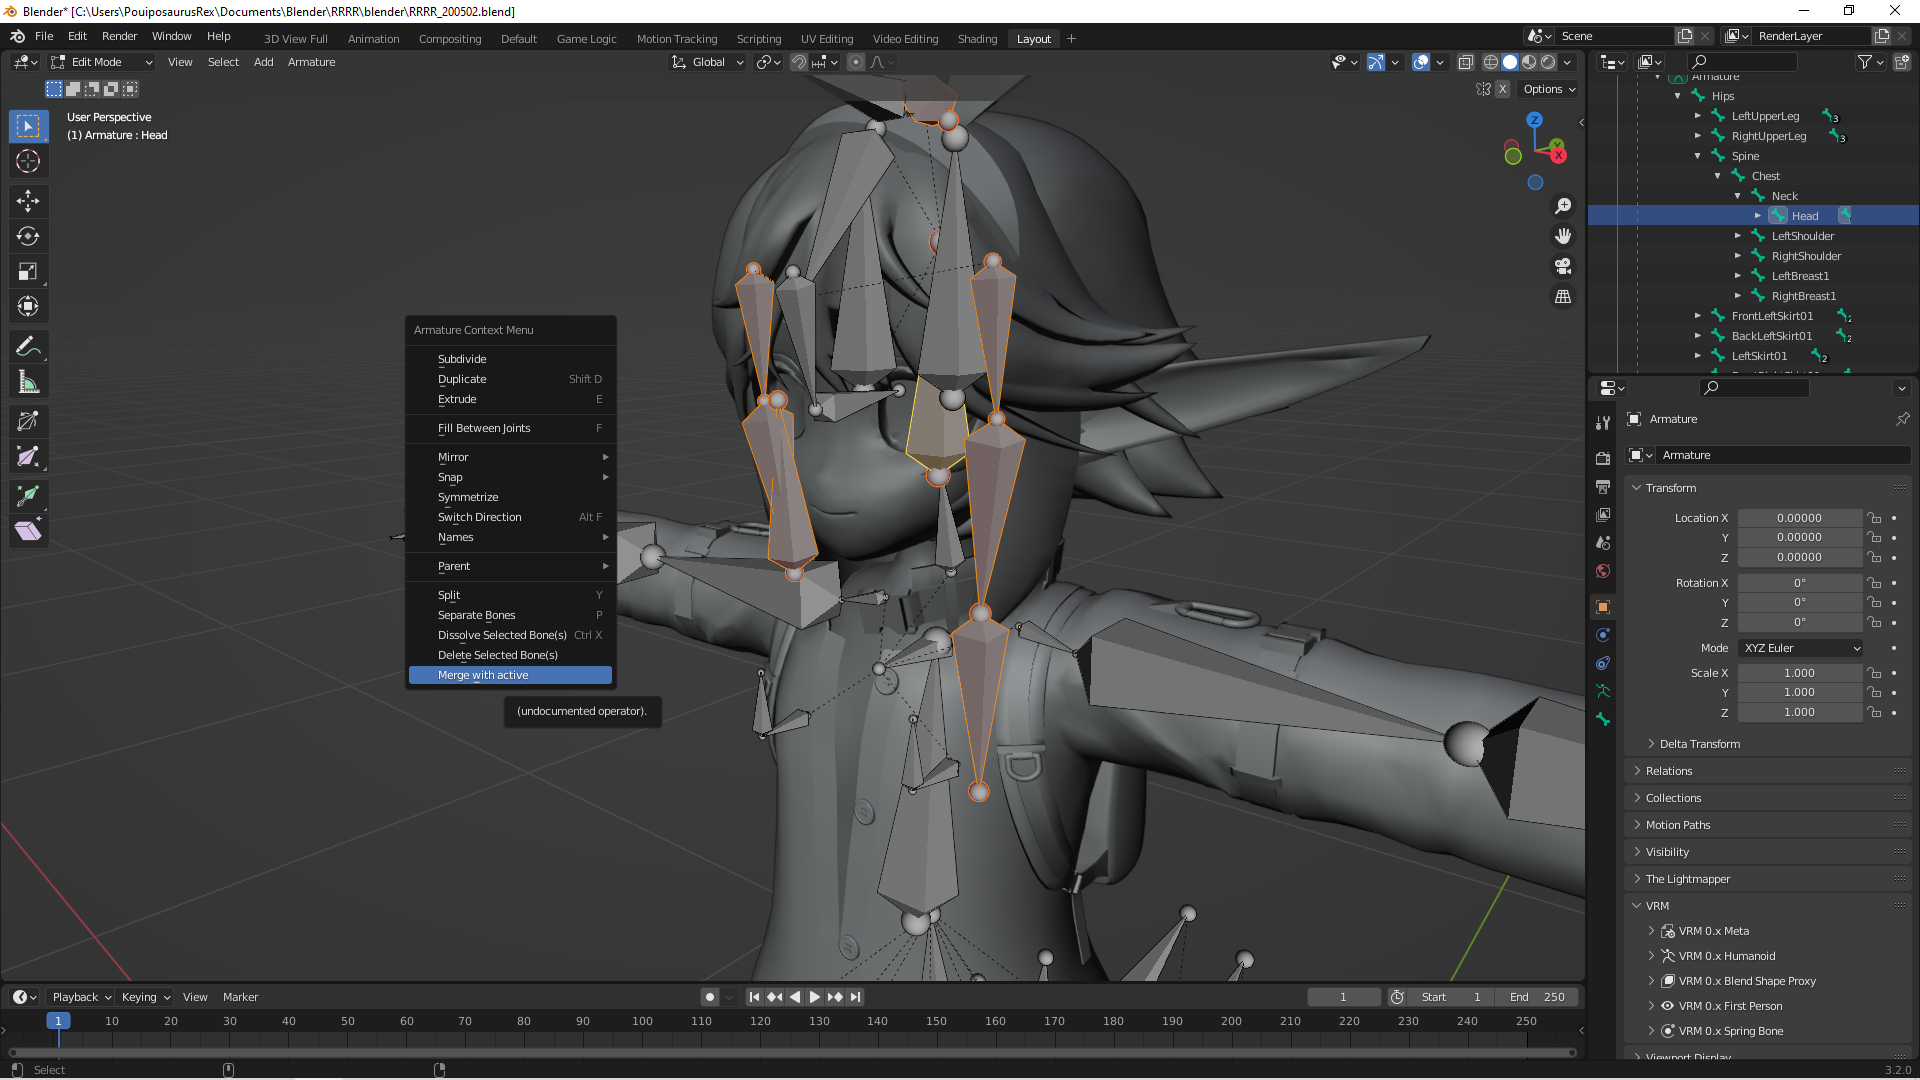
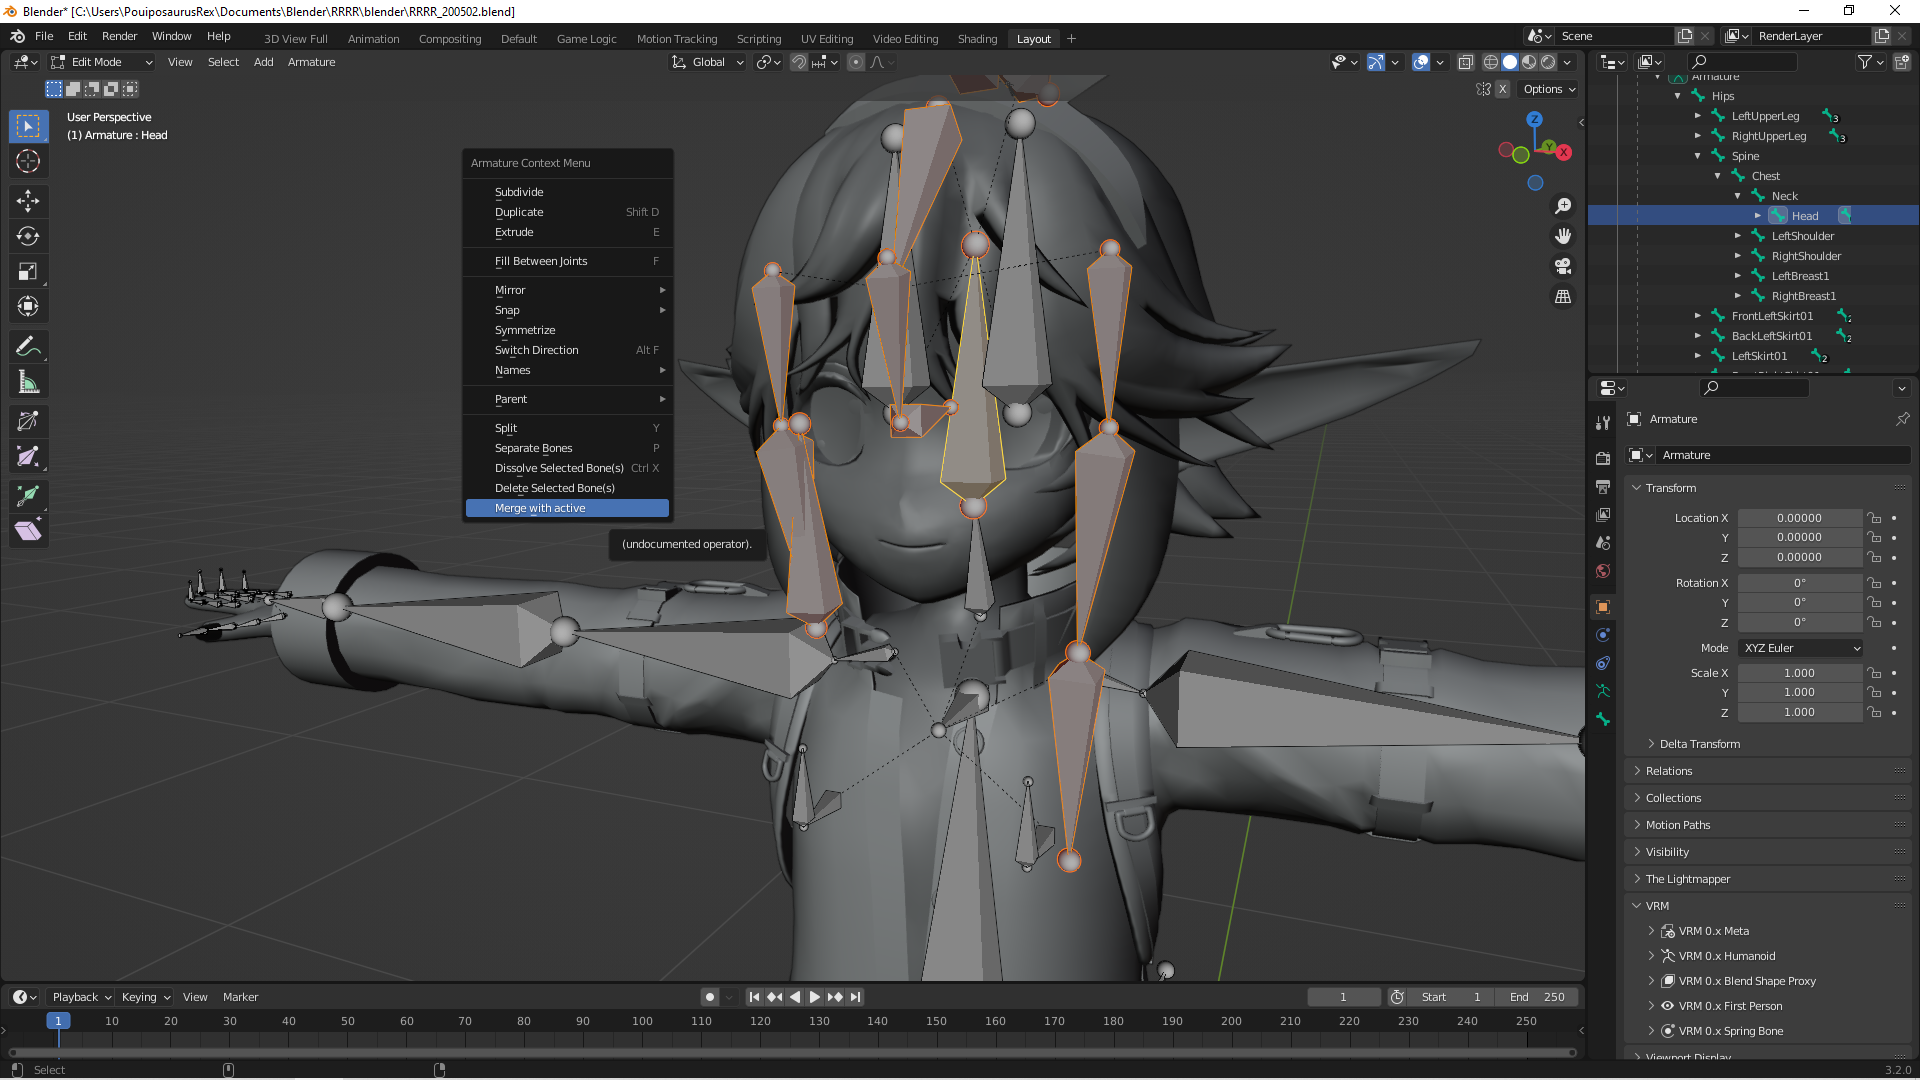
Added more screenshots
And added proper credits to the model used in the screenshots.

Changed region(s): [[0.0938, 0.0611, 0.8438, 0.9167], [0.7812, 0.1222, 0.8125, 0.1528]]

diff --git a/README.md b/README.md
@@ -5,7 +5,18 @@ at the same time.
 
 I mainly use this to clean up unused bones on 3D avatars for VRChat.
 
+# Screenshots
+
+**Invoking the menu**
 ![Merge with Active](Menu.png)
+
+**Results afterward**
+![Results after](After.png)
+
+**Testing in Pose mode**
+![Posing after](After-Pose.png)
+
+*Model in the photo : [RRRR by 広い部屋](https://booth.pm/ja/items/2019040)*
 
 The tool will add a 'Merge with active' option to the Bones Context menu
 in when **Edit**ing an Armature.  
